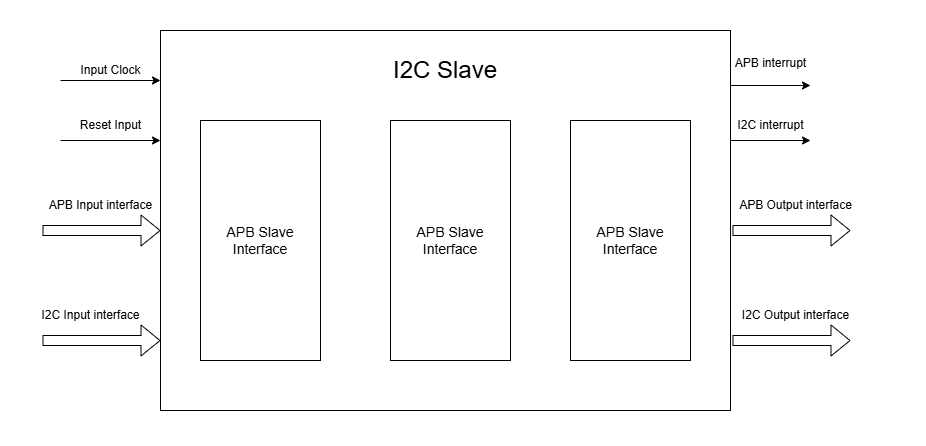
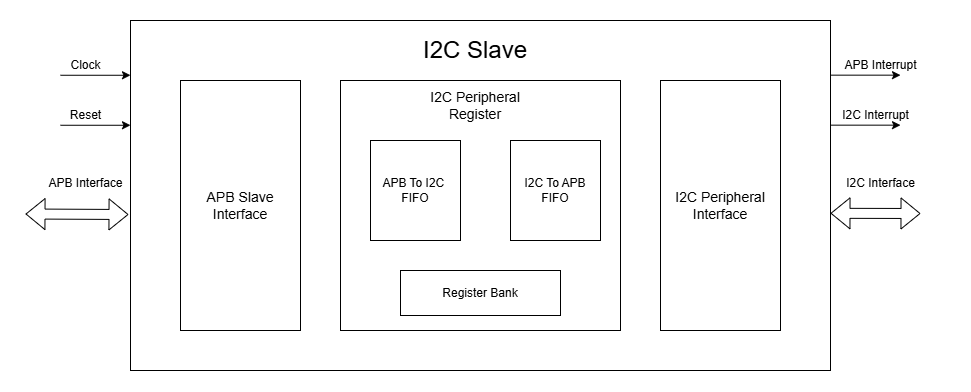
Updated diagrams and added programmers view model for I2C slave doc

diff --git a/docs/doc-src/ip-blocks/apb_i2cs.rst b/docs/doc-src/ip-blocks/apb_i2cs.rst
@@ -20,7 +20,7 @@
 APB I2C SLAVE
 =================
 
-The I2C slave enables the Core-V MCU to interact with an I2C master device by responding to transactions on an I2C bus.
+The I2C slave enables the Core-V MCU to interact with an external I2C master device by responding to transactions on an I2C bus.
 
 Features
 --------
@@ -102,74 +102,130 @@ I2C STATES:
 -  I2C slave has 10 states:
 
    -  ST_IDLE:
-
       -  Initially, the slave is in this state.
-
       -  The slave may also return to this state if a STOP condition is detected.
 
    -  ST_DEVADDR:
-
       -  The slave enters this state after detecting the START sequence and when I2C is enabled through the I2C enable register.
-
       -  The slave receives the device address and transfer type (read/write).
-
       -  The transfer stops if the received device address does not match the configured address in the I2C device address register.
 
    -  ST_DEVADDRACK:
-
       -  The slave enters this state after receiving the I2C device address and sends an acknowledgment.
-
       -  i2c_sda_o is driven low to indicate a successful acknowledgement.
-
       -  The acknowledgment is released by driving i2c_sda_o high before a new transfer.
-
       -  A read operation sets the I2C state to ST_REGRDATA.
-
       -  A write operation sets the I2C state to ST_REGADDR.
 
    -  ST_REGADDR:
-
       -  If the master wants to write, the slave comes to this state.
-
       -  The slave receives the register address inside the device where the master wants to write.
 
    -  ST_REGADDRACK:
-
       -  After successfully receiving the register address, the slave enters this state and sends an acknowledgment.
-
       -  i2c_sda_o is driven low to indicate a successful acknowledgement.
-
       -  The acknowledgment is released by driving i2c_sda_o high before a new transfer.
 
    -  ST_REGWDATA:
-
       -  After sending an acknowledgment, the slave enters this state and writes data to the register.
 
    -  ST_REGWDATAACK:
-
       -  After successfully writing the data, an acknowledgment bit is sent.
-
       -  i2c_sda_o is driven low to indicate a successful acknowledgment.
-
       -  The acknowledgment is released by driving i2c_sda_o high before a new transfer.
 
    -  ST_REGRDATA:
-
       -  The slave enters this state if the master wants to read data.
-
       -  The slave device places the data from the last addressed register onto the i2c_sda_o line.
 
    -  ST_REGRDATAACK:
-
       -  After a successful read, an acknowledgment is received.
-
       -  If a negative acknowledgment is received, the transfer stops.
-
       -  If a successful acknowledgement is received, then I2C state is set to ST_REGRDATA, and more data is read.
 
    -  ST_WTSTOP:
-
       -  The slave enters this state if there are no more transactions or if the transfer is to be stopped.
+
+Programming View Model
+----------------------
+
+FIFO Usage
+^^^^^^^^^^
+The module employs two First-In, First-Out (FIFO) buffers to handle burst data transfer between the APB and I2C interfaces.
+
+  - I2C-to-APB FIFO: 
+      - Buffers data received from the I2C interface before it's read by the APB interface. 
+      - The I2C master needs to write data on the FIFO_I2C_TO_APB_WRITE_DATA_PORT register, which is then pushed on this FIFO.
+      - The APB master can then read the FIFO_I2C_TO_APB_READ_DATA_PORT register in order to retrieve the data, which is then popped from the FIFO.
+      - There are read and write flag registers showing the current status of FIFO and can be accessed by both I2C and APB interfaces.
+  - APB-to-I2C FIFO: 
+      - Buffers data written by the APB interface before it's transmitted via the I2C interface.
+      - The APB master needs to write data on the FIFO_APB_TO_I2C_WRITE_DATA_PORT register, which is then pushed on this FIFO.
+      - The I2C master can then read the FIFO_APB_TO_I2C_READ_DATA_PORT register in order to retrieve the data, which is then popped from the FIFO.
+      - There are read and write flag registers showing the current status of FIFO and can be accessed by both I2C and APB interfaces.
+
+
+Data Flow
+^^^^^^^^^
+
+Write Operation from I2C Master and Read from APB Master:
+  - I2C Master sends START condition(drives SDA line low when SCL is high)
+  - I2C Master sends device address with write bit (0)
+  - Slave acknowledges
+  - I2C Master sends register address
+      - MSG_I2C_TO_APB register for single byte
+      - FIFO_I2C_TO_APB_WRITE_DATA_PORT register for multi-byte transfer
+  - Slave acknowledges
+  - I2C Master sends data byte
+  - Slave acknowledges
+  - I2C Master may send more data bytes with acknowledgment after each, or send STOP condition
+  - Flags and interrupt signals are updated accordingly.
+  - The APB master can read the data from the appropriate register
+      - MSG_I2C_TO_APB for single byte message
+      - FIFO_I2C_TO_APB_READ_DATA_PORT register for multi-byte transfer
+  - Flags and interrupt signals are updated accordingly.
+
+
+Write Operation from APB Master and Read from I2C Master:
+  - The APB master will write data on the appropriate register
+      - MSG_APB_TO_I2C for single byte message
+      - FIFO_APB_TO_I2C_WRITE_DATA_PORT register for multi-byte transfer
+  - Flags and interrupt signals are updated accordingly.
+  - I2C Master sends START condition
+  - I2C Master sends device address with write bit (0)
+  - Slave acknowledges
+  - I2C Master sends register address
+      - MSG_APB_TO_I2C for single byte message
+      - FIFO_APB_TO_I2C_READ_DATA_PORT register for multi-byte transfer
+  - Slave acknowledges
+  - I2C Master sends repeated START
+  - I2C Master sends device address with read bit (1)
+  - Slave acknowledges
+  - Slave sends data byte
+  - I2C Master sends ACK to request more data or NACK to indicate last byte
+  - I2C Master sends STOP condition
+  - Flags and interrupt signals are updated accordingly.
+
+Interrupt Generation
+^^^^^^^^^^^^^^^^^^^^
+The I2C Slave provides interrupt generation for both APB and I2C interfaces
+
+I2C interrupts:
+  - The availability of a new single-byte message from the APB to I2C.
+  - The write flags of the I2C-to-APB FIFO reaching certain levels (e.g., FIFO becoming full),
+    indicating how much space is currently available in FIFO.
+  - The read flags of the APB-to-I2C FIFO reaching certain levels (e.g., FIFO becoming empty),
+    indicating how much items APB master had written that the I2C master still has to process.
+  - Interrupts can be triggered for 8 different levels of both read and write flags, and these interrupt sources can be selectively enabled. 
+
+APB interrupts:
+  - The availability of a new single-byte message from the I2C to APB.
+  - The write flags of the APB-to-I2C FIFO reaching certain levels (e.g., FIFO becoming full),
+    indicating how much space is currently available in FIFO.
+  - The read flags of the I2C-to-APB FIFO reaching certain levels (e.g., FIFO becoming empty),
+    indicating how much items I2C master had written that the APB master still has to process.
+  - Interrupts can be triggered for 8 different levels of both read and write flags, and these interrupt sources can be selectively enabled.
+
 
 APB I2C Slave CSR's:
 --------------------
@@ -278,11 +334,9 @@ MSG_I2C_TO_APB_STATUS
 +======================+==========+==================+==================+============+=============================+
 | RESERVED             | 7:1      | --               | --               |            |                             |
 +----------------------+----------+------------------+------------------+------------+-----------------------------+
-| I2C_TO_APB_STATUS    | 0:0      | R                | R                | 0X00       | This register provide a     |
-|                      |          |                  |                  |            | method for passing a single |
-|                      |          |                  |                  |            | byte message from the I2C   |
-|                      |          |                  |                  |            | interface to the APB        |
-|                      |          |                  |                  |            | interface.                  |
+| I2C_TO_APB_STATUS    | 0:0      | R                | R                | 0X00       | This register indicates if  |
+|                      |          |                  |                  |            | a single byte message is    |
+|                      |          |                  |                  |            | available from I2C to APB.  |
 +----------------------+----------+------------------+------------------+------------+-----------------------------+
 
 MSG_APB_TO_I2C
@@ -312,11 +366,9 @@ MSG_APB_I2C_STATUS
 +======================+==========+==================+==================+============+=============================+
 | RESERVED             | 7:1      | --               | --               |            |                             |
 +----------------------+----------+------------------+------------------+------------+-----------------------------+
-| APB_TO_I2C_STATUS    | 0:0      | R                | R                | 0X00       | This register provides a    |
-|                      |          |                  |                  |            | method for passing a single |
-|                      |          |                  |                  |            | byte message from the APB   |
-|                      |          |                  |                  |            | interface to the I2C        |
-|                      |          |                  |                  |            | interface.                  |
+| APB_TO_I2C_STATUS    | 0:0      | R                | R                | 0X00       | This register indicates if  |
+|                      |          |                  |                  |            | a single byte message is    |
+|                      |          |                  |                  |            | available from APB to I2C.  |
 +----------------------+----------+------------------+------------------+------------+-----------------------------+
 
 FIFO_I2C_TO_APB_WRITE_DATA_PORT
@@ -813,9 +865,9 @@ Interrupt Handling
 Pin Diagram
 -----------
 
-The figure below is a high-level block diagram of the I2C Slave:-
+The figure below represents the input and output pins for the I2C Slave:-
 
-.. figure:: apb_i2cs_image2.png
+.. figure:: apb_i2cs_pin_diagram.png
    :name: I2C_Slave_Pin_Diagram
    :align: center
    :alt:
